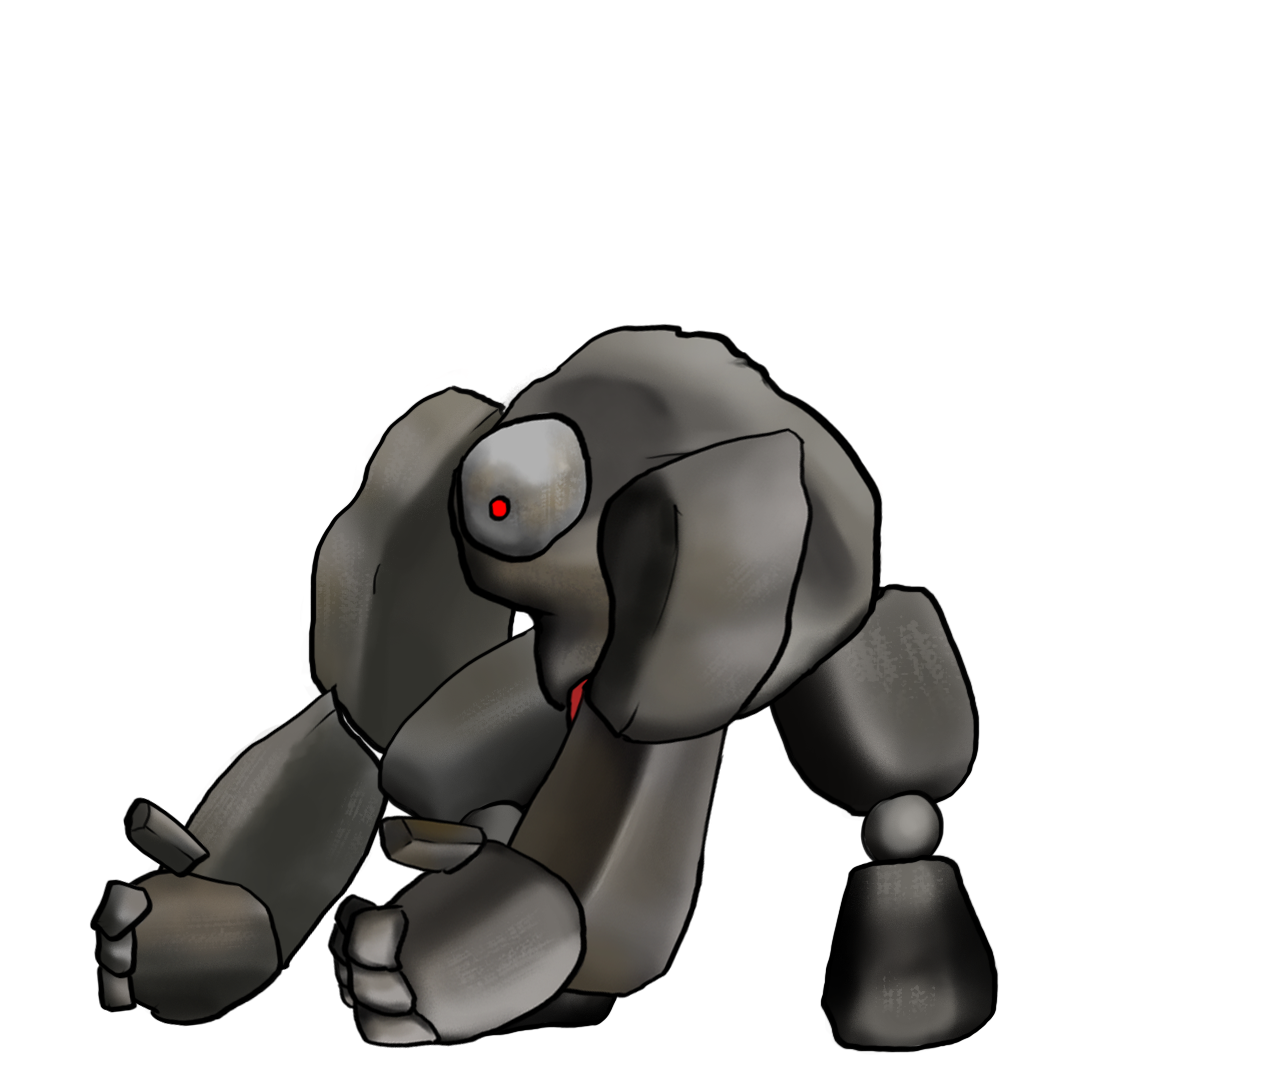
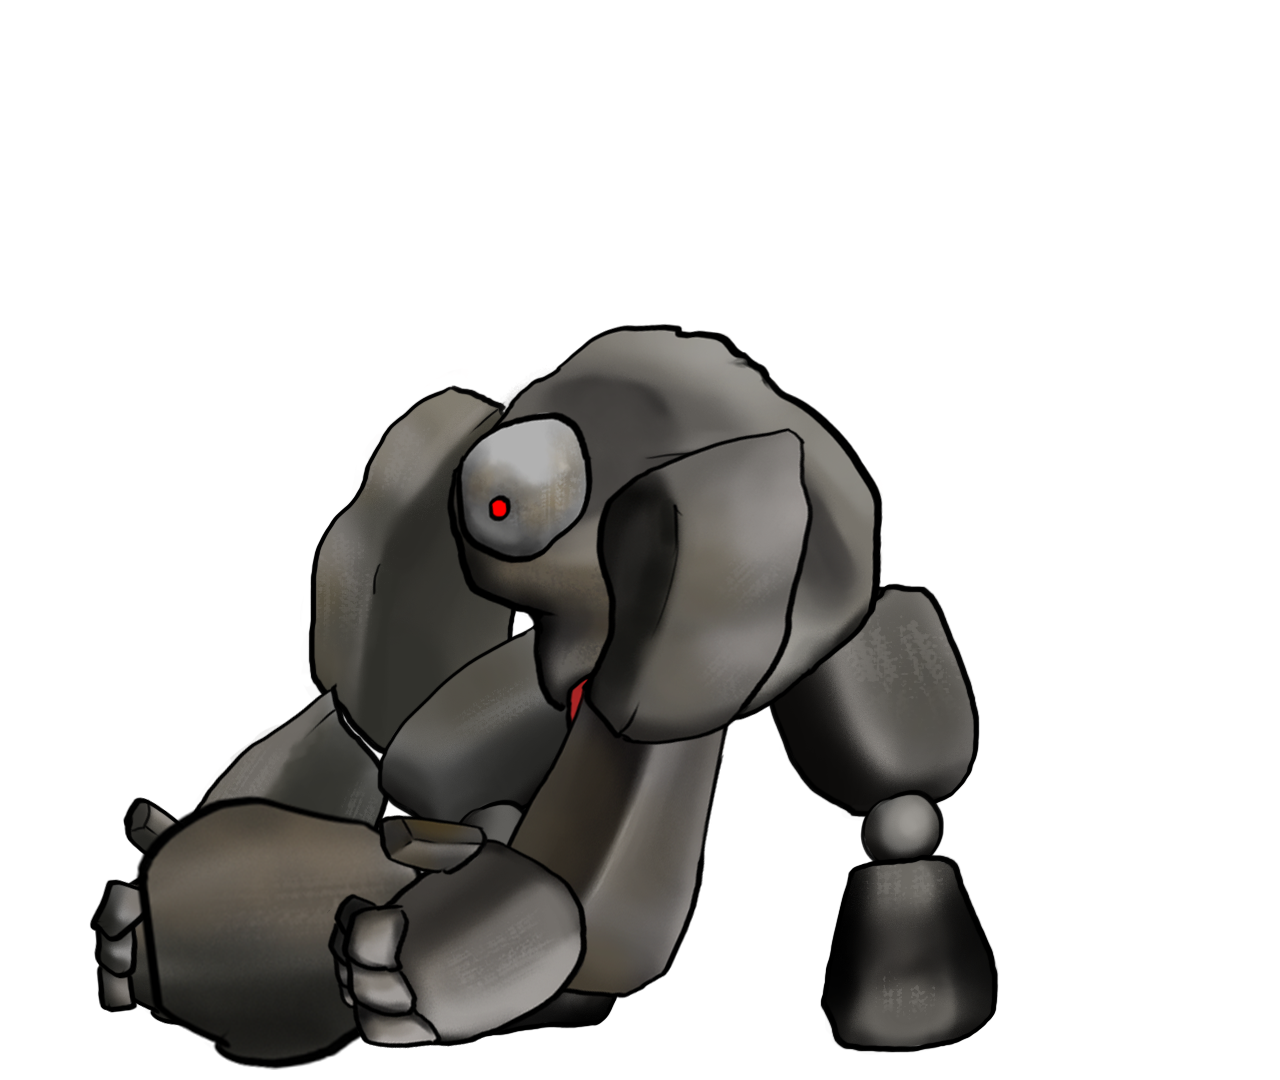
골렘 선딜/후딜 조정. 던지기 공격 이미지 변경

Changed region(s): [[0.0938, 0.7333, 0.3438, 1.0]]

diff --git a/Assets/Scripts/Characters/Enemies/StoneGolem/Enemy_StoneGolem.cs b/Assets/Scripts/Characters/Enemies/StoneGolem/Enemy_StoneGolem.cs
@@ -230,8 +230,10 @@ public class Enemy_StoneGolem : Boss
 
                 yield return new WaitForSeconds(tempInfo.preDelay);
                 anim.Play("Throw");
-                yield return new WaitForSeconds(0.8f);
+                yield return new WaitForSeconds(0.1f);
+
                 CombatSystem.Instance.InstantiateProjectile(tempInfo, gameObject.transform);
+                
 
                 yield return new WaitForSeconds(tempInfo.postDelay);
 
@@ -297,7 +299,8 @@ public class Enemy_StoneGolem : Boss
 
                 yield return new WaitForSeconds(tempInfo.preDelay);
                 anim.Play("Throw");
-                yield return new WaitForSeconds(0.8f);
+                yield return new WaitForSeconds(0.1f);
+
                 CombatSystem.Instance.InstantiateProjectile(tempInfo, gameObject.transform);
 
                 yield return new WaitForSeconds(tempInfo.postDelay);
@@ -337,7 +340,7 @@ public class Enemy_StoneGolem : Boss
         Direction dir = direction;
         Vector3 pos = transform.position;
 
-        for (int i = 0; i < 6; i++)
+        for (int i = 0; i < 1; i++)
         {
             CameraManager.Instance.ShakeCam(0.2f, 0.1f);
             InstantiateShockWave(tempInfo, dir, pos);
